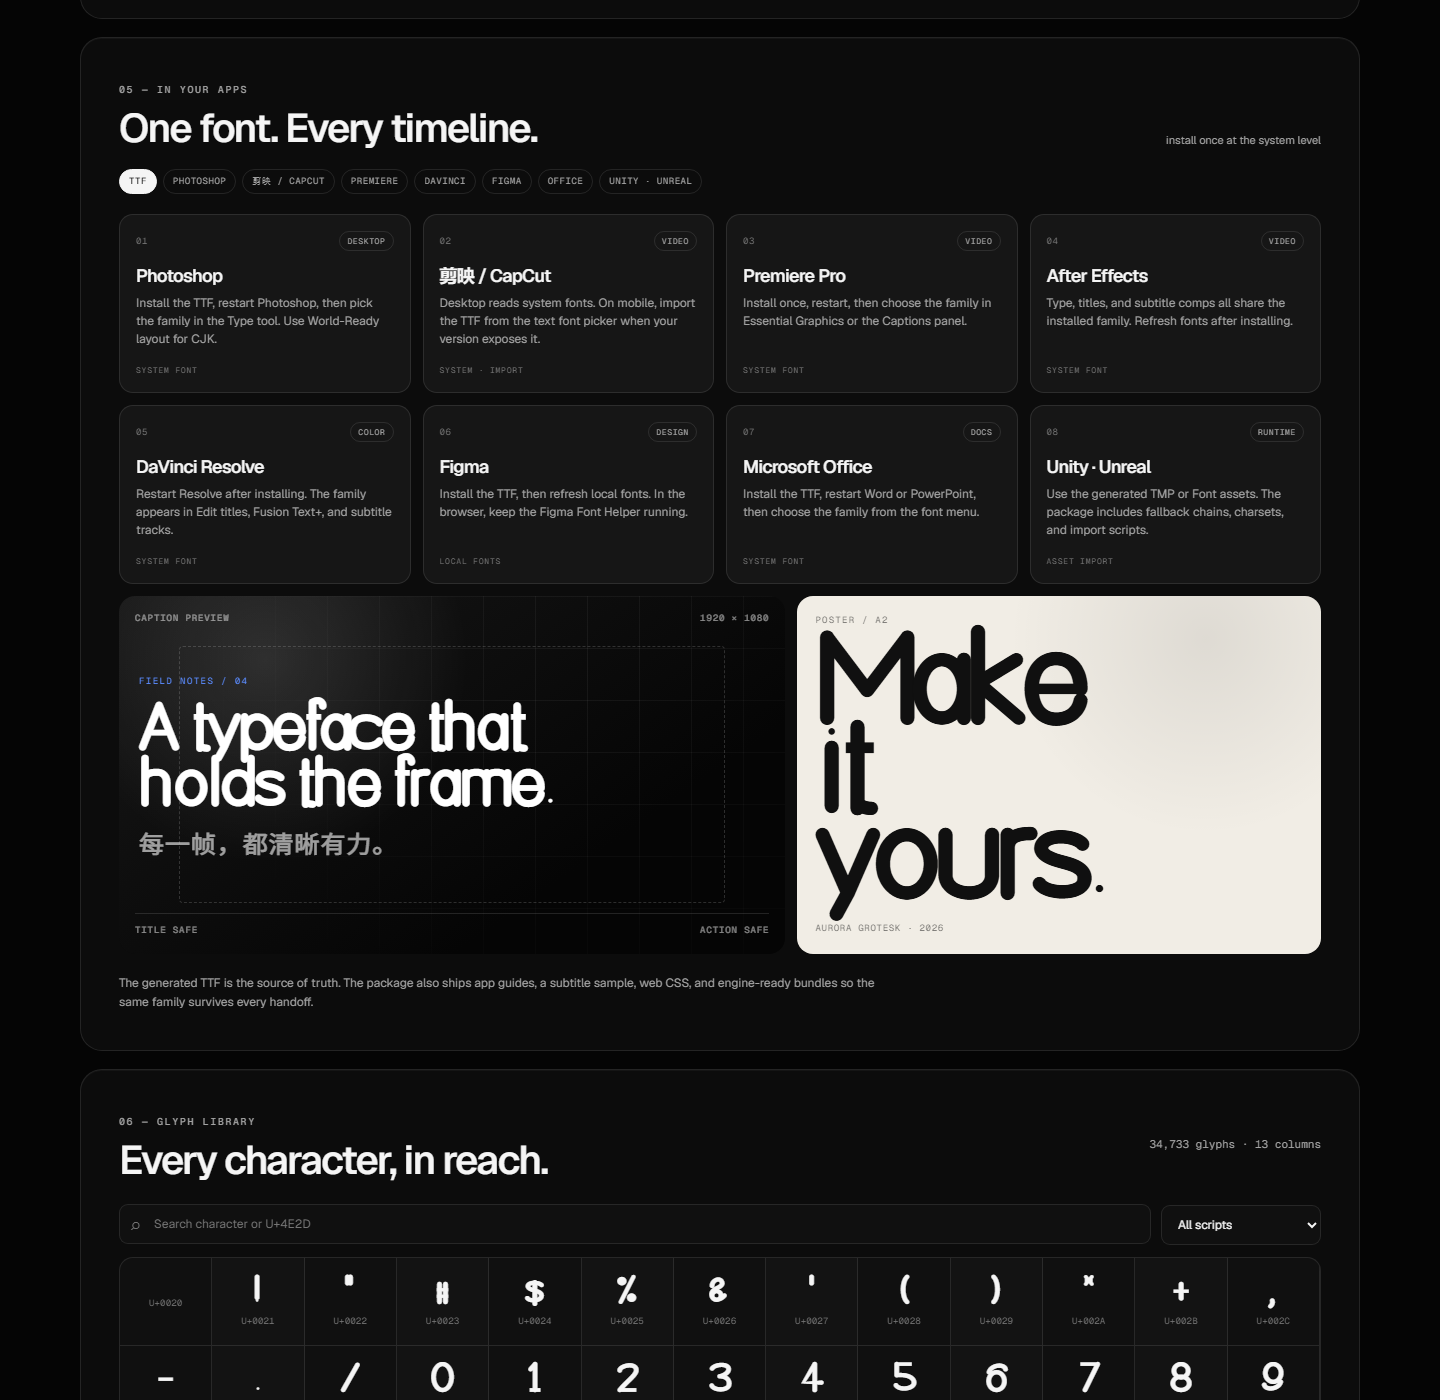
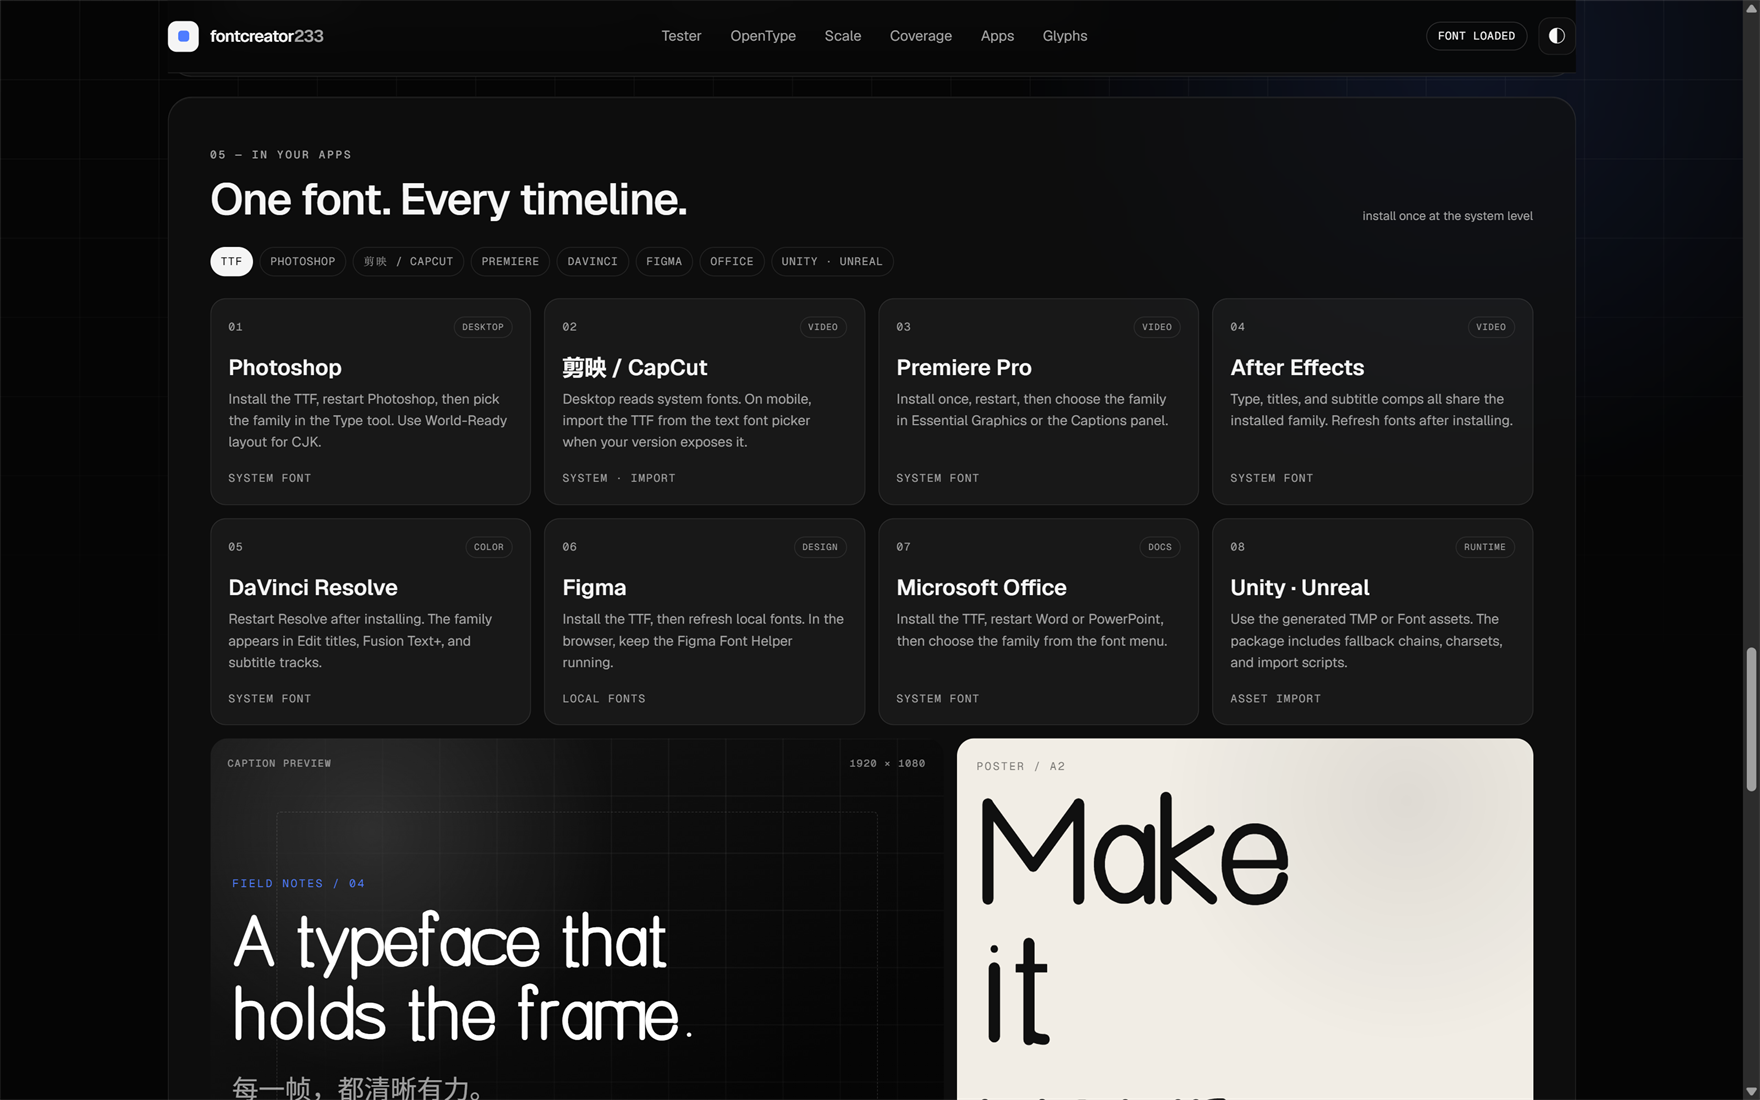
docs: refresh README and all screenshots against the spaced v1.0.1 build
- regenerate specimen/opentype/apps screenshots from an Aurora Grotesk build that
  carries the sidebearing and kerning fixes, at 1760x1100 dark
- add a multilingual coverage screenshot to the Globalization section
- Install section now documents the one-line installers, MSI and self-update
  instead of only go install
- add a release badge
- state the typographic guarantees: tester defaults 1.18 leading / 0 tracking,
  CJK 1.7 line box, 3% UPM sidebearings, clamped kerning

diff --git a/README.md b/README.md
@@ -1,6 +1,7 @@
 # fontcreator233
 
 [![CI](https://github.com/neko233-com/fontcreator233/actions/workflows/ci.yml/badge.svg)](https://github.com/neko233-com/fontcreator233/actions/workflows/ci.yml)
+[![Release](https://img.shields.io/github/v/release/neko233-com/fontcreator233?color=5B8CFF)](https://github.com/neko233-com/fontcreator233/releases/latest)
 [![Go 1.27+](https://img.shields.io/badge/Go-1.27%2B-00ADD8?logo=go)](https://go.dev/)
 [![License: MIT](https://img.shields.io/badge/code-MIT-black.svg)](LICENSE)
 [![Fonts: OFL-1.1](https://img.shields.io/badge/fonts-OFL--1.1-5B8CFF.svg)](assets/base/OFL.txt)
@@ -61,12 +62,36 @@ Just Go, an OFL base font, and a recipe.
 
 ## Install
 
+**One-line installer** — detects the platform, probes mirrors, verifies SHA-256,
+installs and adds the binary to `PATH`:
+
+```bash
+# macOS / Linux
+curl -fsSL https://raw.githubusercontent.com/neko233-com/fontcreator233/main/scripts/install.sh | bash
+```
+
+```powershell
+# Windows (portable, no admin)
+powershell -ExecutionPolicy Bypass -Command "irm https://raw.githubusercontent.com/neko233-com/fontcreator233/main/scripts/install.ps1 | iex"
+```
+
+Windows MSI (recommended, needs admin) — download `fontcreator233-v*-windows-amd64.msi`
+from the [latest release](https://github.com/neko233-com/fontcreator233/releases/latest)
+and run it, or:
+
+```powershell
+irm https://raw.githubusercontent.com/neko233-com/fontcreator233/main/scripts/install.ps1 -OutFile install.ps1
+powershell -File install.ps1 -UseMSI
+```
+
+**With Go:**
+
 ```bash
 go install github.com/neko233-com/fontcreator233@latest
 fontcreator version
 ```
 
-Or build from source:
+**From source:**
 
 ```bash
 git clone https://github.com/neko233-com/fontcreator233
@@ -74,7 +99,19 @@ cd fontcreator233
 go build -o fontcreator .
 ```
 
-Requires Go 1.27+. Windows, macOS, and Linux. `CGO_ENABLED=0` is supported.
+Requires Go 1.27+ when building from source. Prebuilt binaries cover Windows
+amd64 (`.msi` + `.tar.gz`), macOS amd64/arm64, and Linux amd64.
+`CGO_ENABLED=0` is supported.
+
+### Update
+
+The binary updates itself — it probes GitHub plus three mirrors, verifies the
+published SHA-256, then replaces the running executable:
+
+```bash
+fontcreator update --check   # report whether a newer release exists
+fontcreator update           # download, verify, replace
+```
 
 ## The agent loop
 
@@ -229,6 +266,8 @@ Schema.
 
 ## Globalization
 
+![Multilingual coverage](docs/assets/coverage-dark.png)
+
 | Script | Source |
 |---|---|
 | Latin, Latin-1/Extended, Vietnamese | parametric + NFD composition |
@@ -318,6 +357,12 @@ editable type tester with size/leading/tracking, an OpenType feature playground
 (liga, kern, frac, case, tnum, ss01, smcp, onum, zero, sups, subs, ccmp, mark,
 mkmk), scale waterfall, multilingual coverage cards, an app/caption/poster
 preview, and a virtualized glyph grid with search and script filters.
+
+Type is set to be read, not just displayed: the tester opens at leading **1.18**
+and tracking **0**, nothing is rendered with the negative tracking the UI uses for
+its own chrome, and Chinese/Japanese/Korean blocks get a 1.7 line box with strict
+line breaking. Generated outlines keep a 3% UPM sidebearing and kerning is clamped,
+so glyphs never touch.
 
 ![OpenType feature playground](docs/assets/opentype-dark.png)
 
